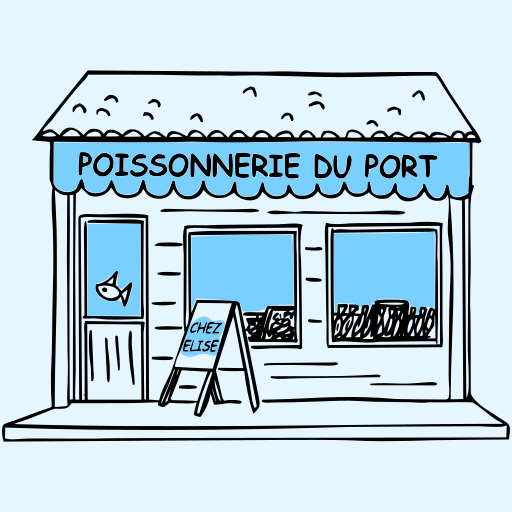
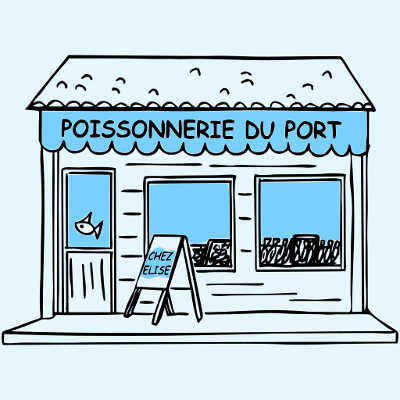
changement photos protfolio et header, correction texte about

diff --git a/public/css/business-styles.css b/public/css/business-styles.css
@@ -141,7 +141,7 @@ header .downlad-btn:hover{ -webkit-transform: translateY(-4px); transform: trans
 	position: relative; 
 	background-size: cover; 
 	z-index: 1;
-	background-image: url(../../public/images/slider-1-1920x1080.jpg); 
+	background-image: url(../../public/images/DSC00088.JPG); 
 }
 
 .intro-section:before{ content:''; z-index: -1; position: absolute; top: 0; bottom: 0; left: 0; 

diff --git a/view/includes/portfolioSection.php b/view/includes/portfolioSection.php
@@ -21,43 +21,43 @@
 		<div class="portfolioContainer margin-b-50">
 			
 			<div class="p-item pro">
-				<a href="public/images/portfolio-13-400x400.jpg" data-fluidbox>
-					<img src="public/images/portfolio-13-400x400.jpg" alt="Poissonnerie du Port Chez Elise"></a>
+				<a href="http://www.poissonnerieduport.fr" data-fluidbox>
+					<img src="public/images/elise.png" alt="Poissonnerie du Port Chez Elise"></a>
 			</div><!-- p-item -->
 			
 			<div class="p-item studies">
-				<a href="public/images/portfolio-14-400x400.jpg" data-fluidbox>
-					<img src="public/images/portfolio-14-400x400.jpg" alt="Web Agency"></a>
+				<a href="http://www.webagency.nicolasduquesne.com" data-fluidbox>
+					<img src="public/images/webagency.png" alt="Web Agency"></a>
 			</div><!-- p-item -->
 			
 			<div class="p-item pro">
-				<a href="public/images/portfolio-15-400x400.jpg" data-fluidbox>
-					<img src="public/images/portfolio-15-400x400.jpg" alt="Perlouse Pigalle"></a>
+				<a href="http://www.perlouse-pigalle.fr" data-fluidbox>
+					<img src="public/images/perlouse.png" alt="Perlouse Pigalle"></a>
 			</div><!-- p-item -->
 			
 			<div class="p-item studies">
-				<a class="img" href="public/images/portfolio-16-400x400.jpg" data-fluidbox>
-					<img src="public/images/portfolio-16-400x400.jpg" alt="Strasbourg Tourisme"></a>
+				<a href="http://www.strasbourg-tourisme.nicolasduquesne.com" data-fluidbox>
+					<img src="public/images/strasbourg.jpg" alt="Strasbourg Tourisme"></a>
 			</div><!-- p-item -->
 			
 			<div class="p-item pro">
-				<a href="public/images/portfolio-17-400x400.jpg" data-fluidbox>
+				<a href="http://www.upstairslab.nicolasduquesne.com" data-fluidbox>
 					<img src="public/images/portfolio-17-400x400.jpg" alt="UpstairsLab"></a>
 			</div><!-- p-item -->
 			
 			<div class="p-item studies">
-				<a href="public/images/portfolio-18-400x400.jpg" data-fluidbox>
-					<img src="public/images/portfolio-18-400x400.jpg" alt="ResaVelov Lyon"></a>
+				<a href="http://www.velov-lyon.nicolasduquesne.com" data-fluidbox>
+					<img src="public/images/velov.jpg" alt="ResaVelov Lyon"></a>
 			</div><!-- p-item -->
 			
 			<div class="p-item studies">
-				<a href="public/images/portfolio-19-400x400.jpg" data-fluidbox>
-					<img src="public/images/portfolio-19-400x400.jpg" alt="Blog Ecrivain"></a>
+				<a href="http://www.blog-ecrivain.nicolasduquesne.com" data-fluidbox>
+					<img src="public/images/alaska.jpg" alt="Blog Ecrivain"></a>
 			</div><!-- p-item -->
 				
 			<div class="p-item perso">
 				<a href="public/images/portfolio-20-400x400.jpg" data-fluidbox>
-					<img src="public/images/portfolio-20-400x400.jpg" alt="Snake"></a>
+					<img src="public/images/snake.png" alt="Snake"></a>
 			</div><!-- p-item -->
 		
 		</div><!-- portfolioContainer -->

diff --git a/view/includes/aboutSection.php b/view/includes/aboutSection.php
@@ -8,9 +8,9 @@
 				</div>
 			</div><!-- col-sm-3 -->
 			<div class="col-sm-12 col-md-12">
-				<p class="margin-b-30 text-center">Après 10 ans d’expérience professionnelle en tant que Dessinateur industriel, je profite d’un déménagement à l’étranger pour sauter le pas et entreprendre une nouvelle carrière dans un domaine qui me passionne depuis de nombreuses années: le développement web. <br>
+				<p class="margin-b-30 text-center">Après 10 ans d’expérience professionnelle en tant que dessinateur industriel, je profite d’un déménagement à l’étranger pour sauter le pas et entreprendre une nouvelle carrière dans un domaine qui me passionne depuis de nombreuses années : le développement web. <br>
 				C’est dans la ville de Vientiane, capitale du Laos, où je vis actuellement, que je m’initie en autodidacte à cette nouvelle activité, en réalisant plusieurs sites internet pour des proches. <br>
-				Puis je me professionnalise en intégrant le cursus diplômant en développement web d’Openclassroooms, structure renommée et reconnue par l’État. <br>
+				Puis je me professionnalise en intégrant le cursus diplômant en développement web <a href="https://openclassrooms.com/paths/48-developpeur-web-junior">d’Openclassroooms</a>, structure renommée et reconnue par l’État. <br>
 				Je maîtrise à présent les langages (HTML, CSS, JavaScript et PHP) et outils (wordpress, bootstrap, github) nécessaires au développement de sites webs adaptables à tous types de support. J’apporte également une grande attention au respect des standard du web et des normes en vigueurs, et à l’amélioration du référencement naturel. <br>
 				Je travaille aujourd'hui comme develeppeur web indépendant au sein de l'equipe <a href="http://www.upstairslab.nicolasduquesne.com">d'UpstairsLab</a>.
 				</p>

diff --git a/view/includes/introSection.php b/view/includes/introSection.php
@@ -6,7 +6,7 @@
 				<div class="intro">
 					<div class="profile-img"><img src="public/images/nicolas.png" alt="Nicolas Duquesne"></div>
 					<h2><b>Nicolas Duquesne</b></h2>
-					<h4 class="font-yellow">Web Developer</h4>
+					<h4 class="font-yellow">Développeur Web</h4>
 					<ul class="information margin-tb-30">
 						<li><b>AGE : </b>32</li>
 						<li><b>EMAIL : </b>contact@nicolasduquesne.com</li>
